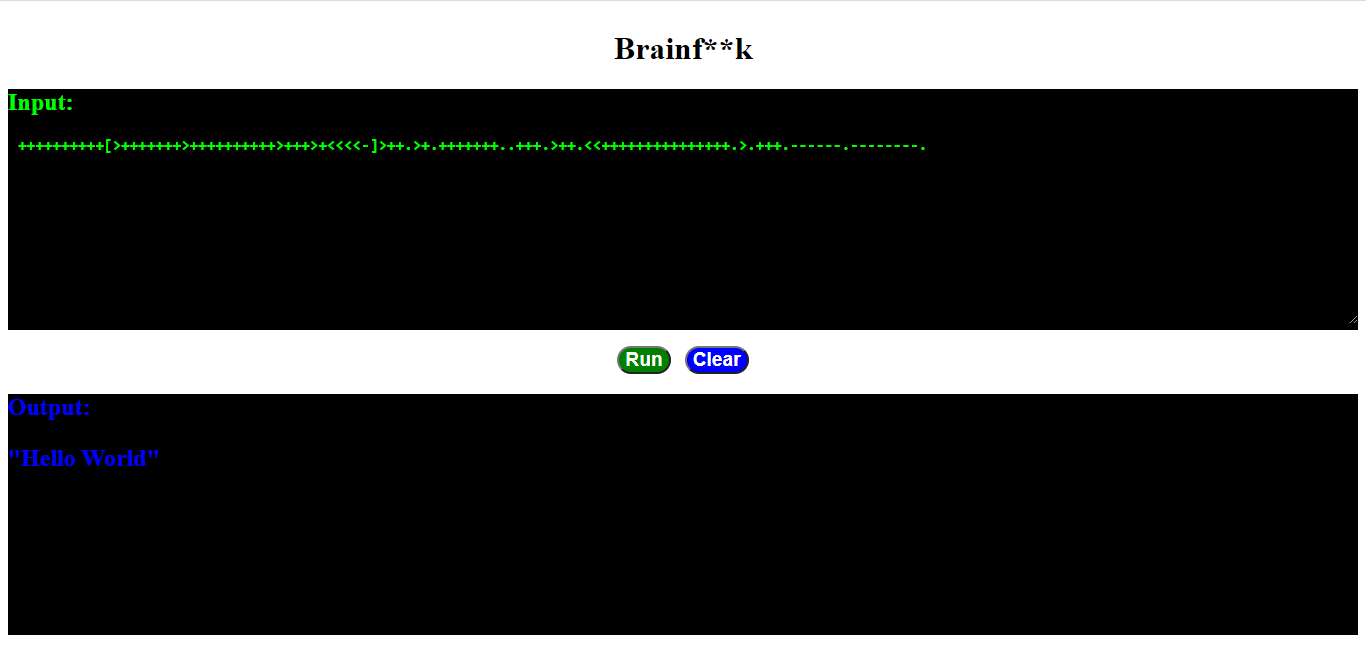
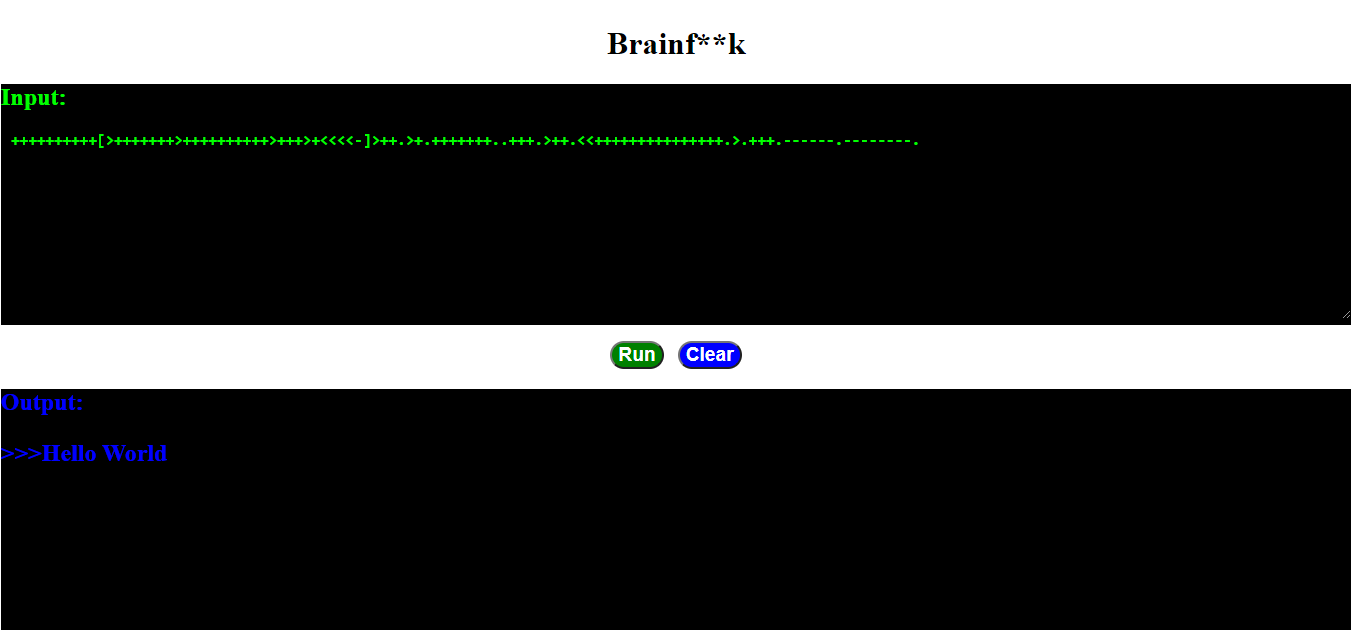
update output

diff --git a/app/static/js/app.js b/app/static/js/app.js
@@ -4,7 +4,11 @@ $("#button1").click(function() {
 			js_data: JSON.stringify({ "code":code})
 		},
 		function(data) {
-			$('#result').append(`<p>${JSON.stringify(data.result, null, 2)}</p>`);
+			if (data.result === '') {
+				$('#result').append(`<p>>>></p>`);
+			} else {
+				$('#result').append(`<p>>>>${(data.result)}</p>`);
+			}
 	});
 });
 
